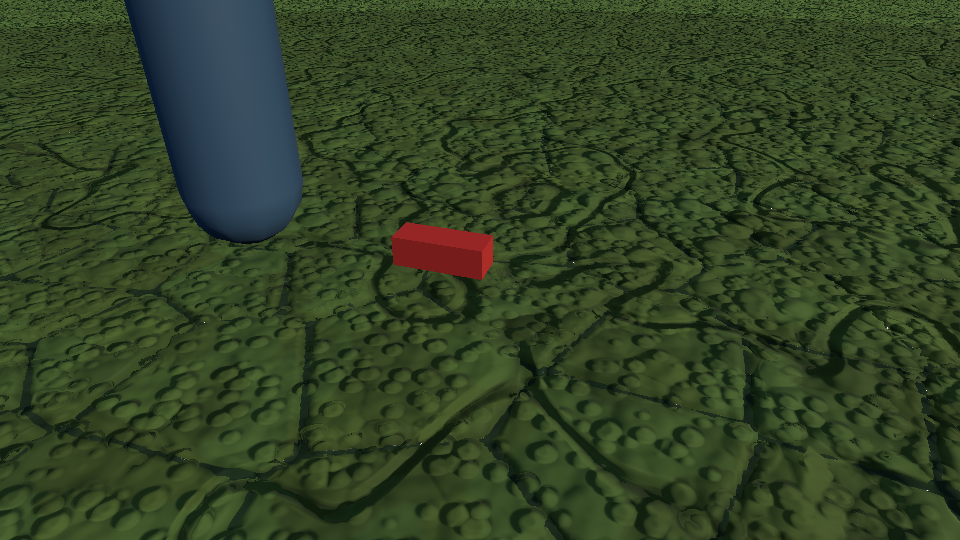
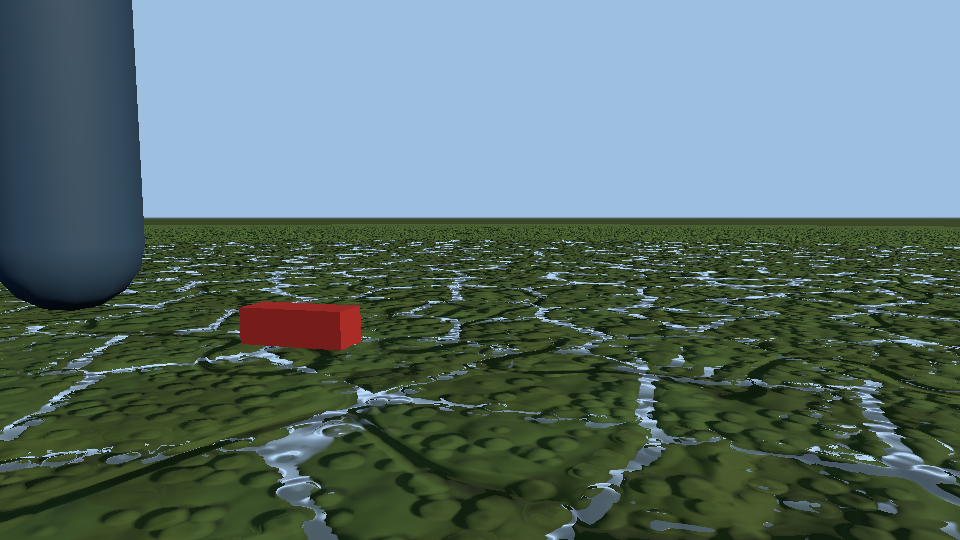
Ground: puddles fill the low 64% of the relief at full wetness (reflective water in cracks), verification renders for volcanic/ice/wet
Claude-Session: https://claude.ai/code/session_011S5NGfxHypDSX9BF8ofHD7

diff --git a/tools/tests/ground-harness.html b/tools/tests/ground-harness.html
@@ -19,7 +19,7 @@ await import('../../ui/dm-parallax.js'); await import('../../ui/dm-groundlib.js'
 const src=await (await fetch('../../index.html')).text();
 const a=src.indexOf('function _terrainDetailMat(opts){'), b=src.indexOf('\n}\n',a)+3;
 const fn=new Function('THREE','TERRAIN','TESS_HOLE','resolvePreset','_pwfReady','window',src.slice(a,b)+'\nreturn _terrainDetailMat;')(THREE,window.TERRAIN,window.TESS_HOLE,window.resolvePreset,window._pwfReady,window);
-const r=new TH.WebGPURenderer({canvas:document.getElementById('c'),forceWebGL:true,antialias:false}); await r.init();
+const r=new TH.WebGPURenderer({canvas:document.getElementById('c'),forceWebGL:true,antialias:false}); await r.init(); if(q('sky')==='1'){ }
 window.backend=r.backend.constructor.name;
 const sc=new TH.Scene(); sc.background=new TH.Color(0x9ec0e0); sc.fog=new TH.Fog(0x9ec0e0,80,400);
 const view=q('view','wide');
@@ -47,5 +47,6 @@ let t0=performance.now(); await r.compileAsync(sc,cam); window.compileMs=perform
 if(window.DMParallax._S.U){ window.DMParallax._S.U.steps.value=+q('steps',window.DMParallax._S.U.steps.value); }
 t0=performance.now(); for(let i=0;i<3;i++) await r.renderAsync(sc,cam); window.frameMs=(performance.now()-t0)/3;
 window.prof=prof&&prof.names; window.bakeMs=bakeMs; window.status=window.DMParallax.status(); window.gstatus=window.DMGround.status();
+if(window.DMGround._S.U){ window.DMGround._S.U.skyAmt.value=1; await r.renderAsync(sc,cam); }
 window.done=true;
 </script>

diff --git a/ui/dm-groundlib.js b/ui/dm-groundlib.js
@@ -484,8 +484,8 @@
         });
         return wb;
       })().toVar();
-      // puddle level in height units: wet regions fill the low 46% of the relief, only on flat ground
-      const level = wetF.mul(0.46).mul(smoothstep(float(0.8), float(0.96), nY));
+      // puddle level in height units: wet regions fill the low 64% of the relief at full wetness, only on flat ground
+      const level = wetF.mul(0.64).mul(smoothstep(float(0.8), float(0.96), nY));
       const Hn = (uvw, lodv) => {
         const hv = F1(uvw, iA, lodv).x.toVar();
         If(WB.greaterThan(0.004), () => { hv.assign(tmix(hv, F1(uvw, iB, lodv).x, WB)); });
